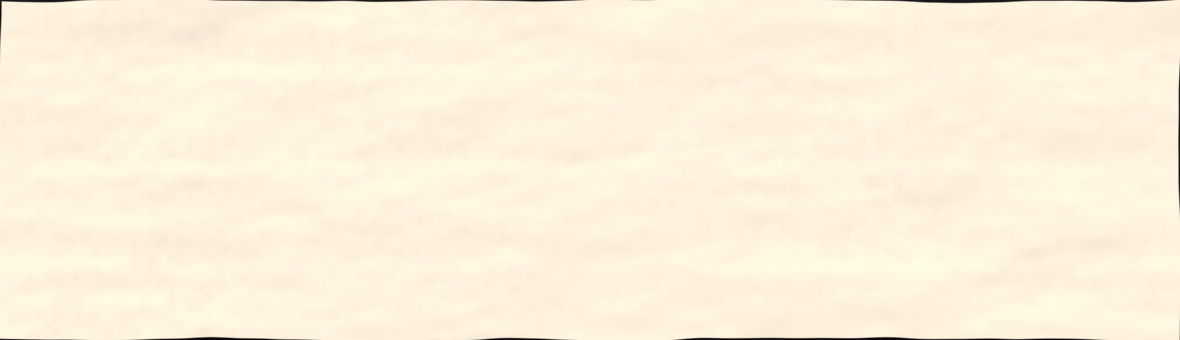
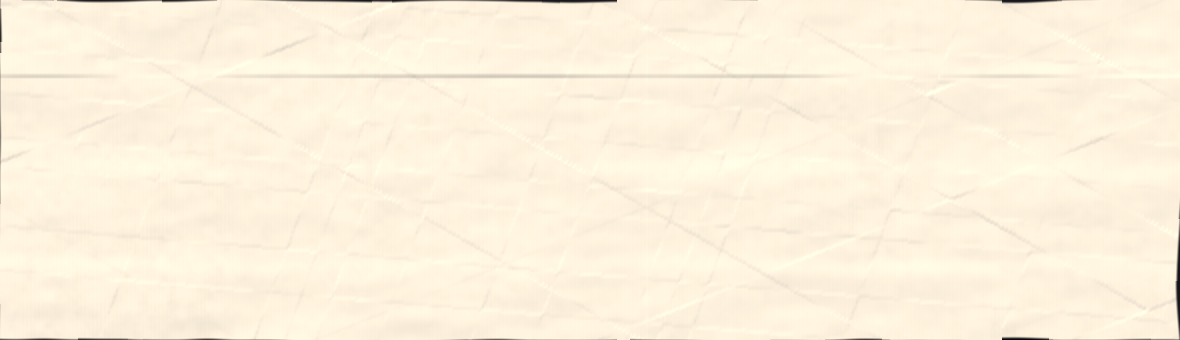
demo: recalibrate the capability demo and regenerate its stale renders
The four news pages were recalibrated against the fixed renderer but the
capability demo was not, and it carries exactly the same stale overrides.

  imperfections  pit_density 0.25 -> 0.10, mark_density 0.2 -> 0.09. With the
                 3x3 neighbourhood scan each feature renders whole instead of
                 being clipped to its cell, so the old values were peppered.
  scratches      density 0.12 -> 0.06 for the same reason; scale_mm now
                 inherits the 11.94 default, so they read as fibre lift.
  crumple        amplitude 70 -> 90 with crease pinned to 0.04. It was
                 inheriting the default crease 0.3, well above the ~0.05 where
                 the crease term stops dominating the facets and reads as mud.
  folds          depth 0.6 -> 1.5, matching the two-scale fold.
  specular       value kept at 1.1, caption now says it used to clip to white.

Captions rewritten to describe the current model rather than the old one, since
this page is the reference anyone reads to learn what each term does.

Also regenerated the pre-rendered PNGs that had silently gone stale: all six
demo/mould variants, the "after" row of demo/ba, and panel D of demo/compare.
Every one of those was rendered by the old renderer and no longer showed what
the library produces. The reference images that are deliberately old (the
mould page's ref-old, and compare panels A-C) are untouched, because their whole
job is to show the previous behaviour.
[…]

diff --git a/demo/index.html b/demo/index.html
@@ -316,12 +316,12 @@ const ISOLATED = [
   ['formation (fbm)', 'Mid-scale mass clumping as a Gaussian scale mixture, so local contrast itself fluctuates.', { formation: { enabled: true, amplitude: 0.05, source: 0 } }],
   ['formation (Gabor)', 'Band-limited: a spectral peak at 1/scale_mm rather than fbm\u2019s broadband 1/f. Reads toothy.', { formation: { enabled: true, amplitude: 0.05, source: 1, scale_mm: 1.8, bandwidth: 1.1 } }],
   ['cavity shading', 'blur(h) \u2212 h is the discrete Laplacian, so it is the mean curvature. The one term that escapes the emboss.', { cockle: { enabled: true, amplitude_um: 34 }, cavity: { enabled: true, lambda: 1.4 } }],
-  ['specular', 'Cockle\u2019s real signal is gloss off the crests, not diffuse shading.', { cockle: { enabled: true, amplitude_um: 34 }, light: { specular: true, spec_intensity: 1.1 } }],
+  ['specular', 'Cockle\u2019s real signal is gloss off the crests, not diffuse shading. At intensity 1.1 this used to clip to pure white; the highlight shoulder now rolls it off instead.', { cockle: { enabled: true, amplitude_um: 34 }, light: { specular: true, spec_intensity: 1.1 } }],
   ['non-stationary fade', 'A big-scale cubed mask. Its absence is the single biggest \u201cthis is procedural\u201d tell.', { formation: { enabled: true, amplitude: 0.07 }, fade: { enabled: true, amount: 1 } }],
-  ['scratches', 'Sparse, and mostly LIGHT: fibre lift reads bright. A fraction read dark.', { scratches: { enabled: true, density: 0.12, lightness: 0.25 } }],
-  ['imperfections', 'Pits and rarer, larger blotches, each randomising its own size and strength.', { imperfect: { enabled: true, pit_density: 0.25, mark_density: 0.2 } }],
-  ['crumple', 'Worley 1996. fbm(F1) gives the lumpy facets; F2\u2212F1 gives the sharp Voronoi crease network.', { crumple: { enabled: true, amplitude_um: 70 }, cavity: { enabled: true } }],
-  ['folds', 'A few deliberate pressed creases, each a signed ridge across the sheet.', { folds: { enabled: true, count: 3, depth: 0.6 }, cavity: { enabled: true } }],
+  ['scratches', 'Sparse, and mostly LIGHT: fibre lift reads bright. A fraction read dark. Long and thin: the cell is ~12&nbsp;mm at a 25:1 aspect.', { scratches: { enabled: true, density: 0.06, lightness: 0.22 } }],
+  ['imperfections', 'Pits and rarer, larger blotches, each randomising its own size. Each is scanned across the 3&times;3 cell neighbourhood, so none is clipped to a square.', { imperfect: { enabled: true, pit_density: 0.10, mark_density: 0.09 } }],
+  ['crumple', 'Every Worley cell is its own flat tilted plane, so a crumpled sheet is a polyhedron and the creases vary in prominence. <code>crease</code> blends back toward a sharp crack network; above ~0.05 it reads as dried mud.', { crumple: { enabled: true, amplitude_um: 90, crease: 0.04 }, cavity: { enabled: true } }],
+  ['folds', 'A broad tilt over ~14&nbsp;mm plus a narrow crease line under a millimetre. Only the crease catches the light, which is what a relaxed fold actually does.', { folds: { enabled: true, count: 3, depth: 1.5 }, cavity: { enabled: true } }],
   ['deckle edge', 'A clustered low-frequency envelope times a fine along-edge carrier, feathering the silhouette into fibre tufts.', { edge: { enabled: true, wobble_px: 4, deckle_px: 12 } }],
   ['cast shadow', 'Tight core at contact, soft halo where the sheet lifts. A uniform offset blur is what makes a fake shadow read fake.', { edge: { enabled: true, wobble_px: 5 }, shadow: { enabled: true, darkness: 0.85, blur_px: 18 } }],
   ['duotone', 'A scalar shade times a beige tint cannot hue-shift. Warm highlights, cool shadows: the painter\u2019s rule.', { cockle: { enabled: true, amplitude_um: 40 }, tone: { duotone: 1 } }],
